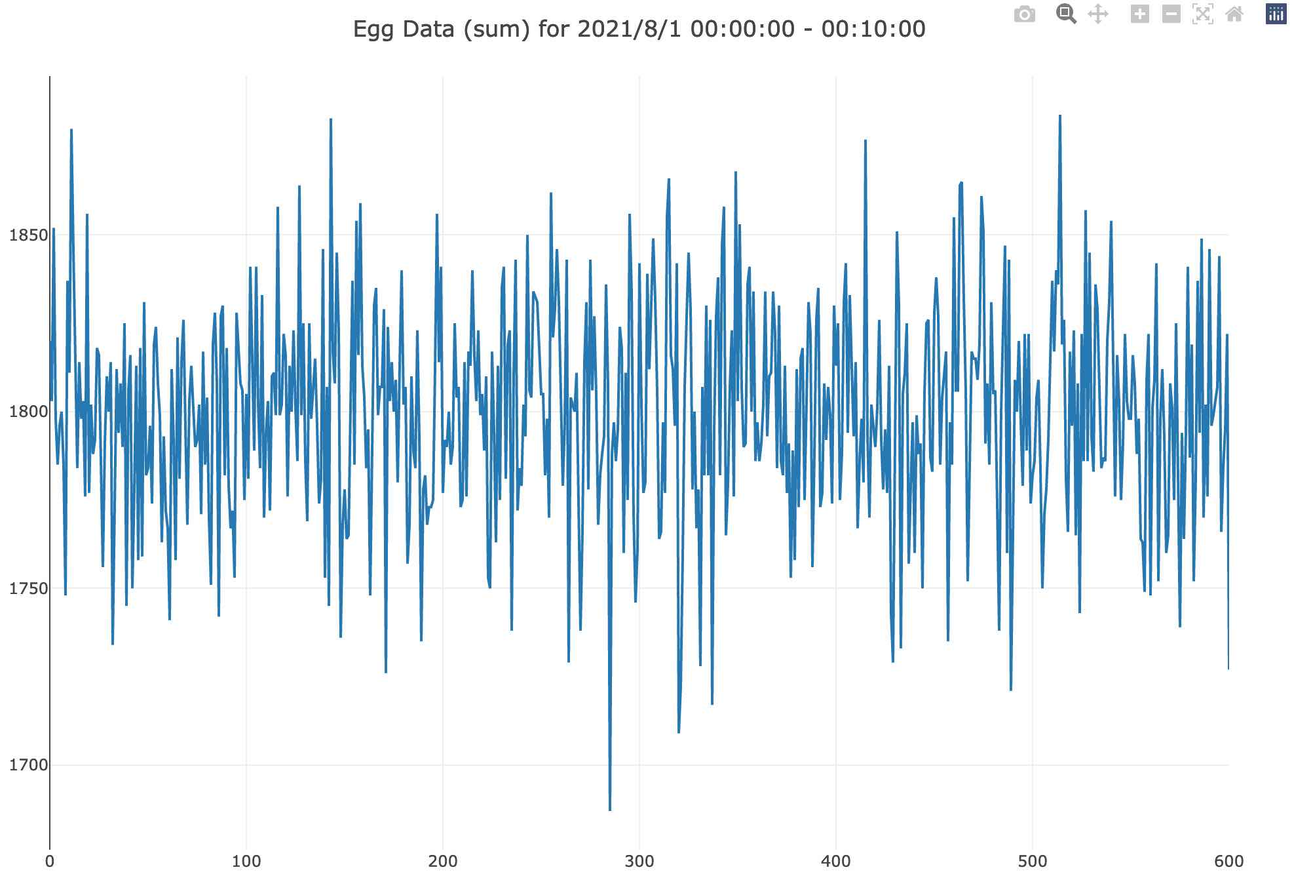
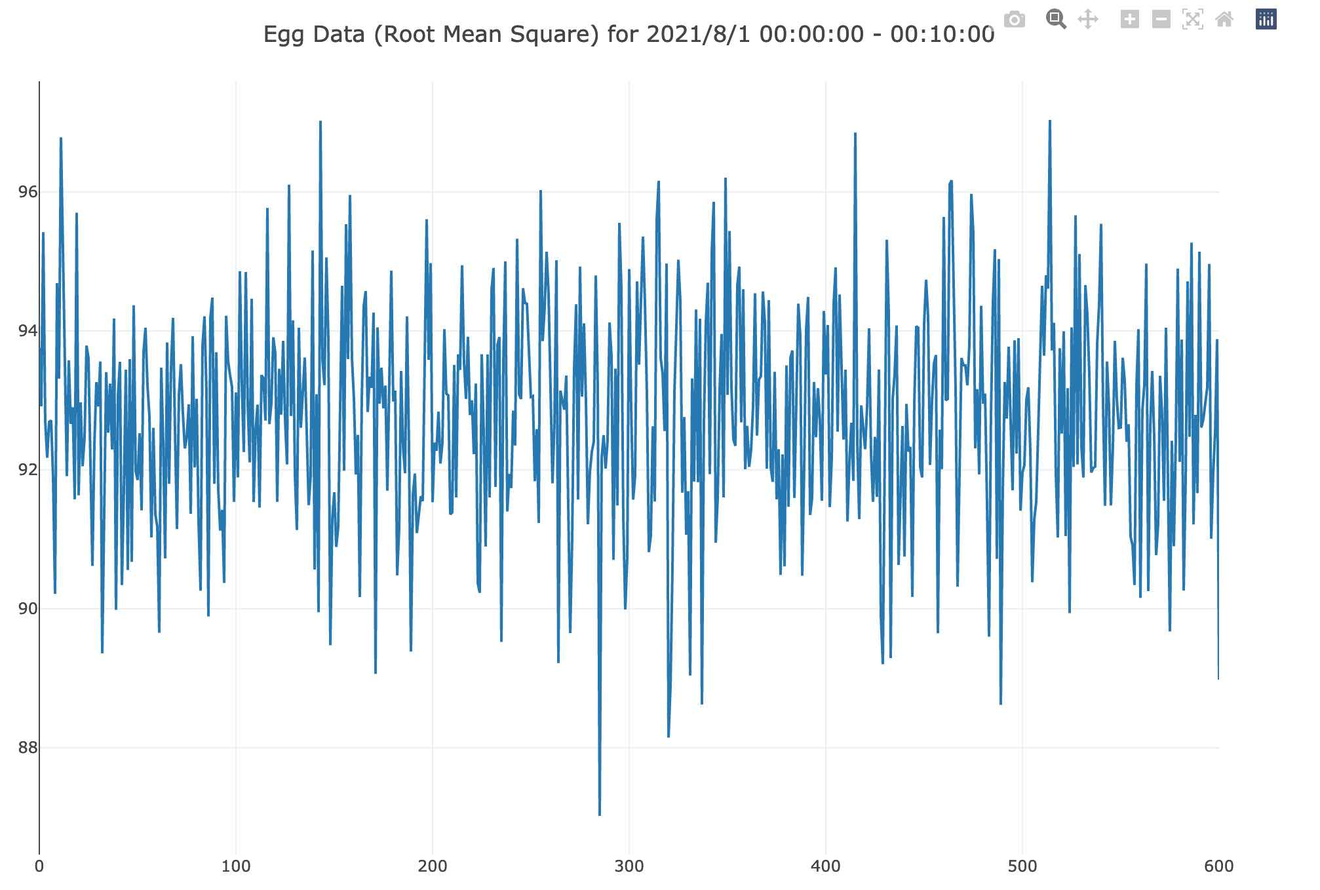
Using root mean square.

diff --git a/p.html b/p.html
@@ -9,7 +9,7 @@ window.PlotlyConfig = {MathJaxConfig: 'local'};
 <script src="https://cdn.plot.ly/plotly-2.3.0.min.js"></script>
 
     <div
-        id=ecaf3ba2-5020-43ff-a134-9214b3d9214f
+        id=5c36fc4e-a278-4e18-a6ee-1430b89dcc70
         class="plotly-graph-div"
         style="height:700; width:1000;">
     </div>
@@ -17,11 +17,11 @@ window.PlotlyConfig = {MathJaxConfig: 'local'};
         
         window.PLOTLYENV = window.PLOTLYENV || {}
         
-        if (document.getElementById('ecaf3ba2-5020-43ff-a134-9214b3d9214f')) {
+        if (document.getElementById('5c36fc4e-a278-4e18-a6ee-1430b89dcc70')) {
     Plotly.newPlot(
-        'ecaf3ba2-5020-43ff-a134-9214b3d9214f',
-        [{"mode":"lines","y":[1820,1803,1852,1798,1785,1796,1800,1785,1748,1837,1811,1880,1846,1819,1784,1814,1798,1803,1776,1856,1777,1802,1788,1792,1818,1816,1783,1756,1791,1810,1800,1814,1734,1782,1812,1794,1808,1790,1825,1745,1806,1816,1750,1778,1813,1758,1818,1759,1831,1782,1784,1796,1774,1819,1824,1808,1799,1763,1793,1772,1767,1741,1812,1792,1758,1821,1781,1814,1826,1796,1768,1803,1813,1801,1790,1792,1802,1771,1817,1785,1804,1770,1751,1819,1828,1808,1742,1827,1830,1782,1818,1779,1767,1772,1753,1828,1817,1808,1806,1775,1805,1781,1841,1809,1789,1841,1802,1784,1833,1770,1794,1803,1772,1810,1811,1799,1858,1799,1802,1822,1816,1776,1813,1800,1823,1801,1786,1864,1799,1825,1786,1769,1825,1798,1809,1815,1796,1774,1781,1846,1753,1807,1745,1883,1817,1808,1845,1823,1736,1768,1778,1764,1765,1799,1837,1785,1854,1816,1859,1813,1804,1784,1795,1748,1800,1830,1835,1799,1807,1807,1829,1726,1824,1803,1814,1800,1809,1780,1813,1840,1802,1807,1757,1768,1810,1789,1784,1823,1793,1735,1778,1782,1768,1773,1773,1775,1812,1856,1814,1841,1777,1792,1790,1800,1785,1790,1825,1804,1807,1773,1775,1814,1776,1817,1813,1840,1816,1803,1823,1799,1805,1789,1810,1753,1750,1817,1795,1763,1813,1775,1835,1841,1781,1819,1823,1738,1810,1843,1772,1784,1779,1802,1793,1850,1806,1804,1834,1832,1831,1818,1805,1805,1782,1798,1770,1862,1821,1829,1846,1831,1808,1779,1797,1843,1729,1804,1802,1800,1811,1780,1738,1766,1814,1831,1778,1843,1806,1827,1805,1768,1782,1788,1793,1836,1808,1687,1788,1797,1786,1795,1824,1818,1760,1811,1775,1856,1834,1771,1746,1761,1842,1802,1777,1780,1839,1812,1833,1849,1832,1806,1764,1766,1797,1777,1855,1866,1816,1812,1796,1842,1709,1722,1759,1807,1827,1845,1829,1778,1800,1767,1778,1728,1807,1782,1830,1782,1826,1717,1795,1827,1838,1782,1847,1858,1765,1779,1807,1823,1776,1868,1803,1853,1807,1790,1791,1836,1841,1800,1834,1786,1797,1786,1791,1802,1834,1793,1810,1811,1834,1822,1784,1830,1786,1782,1813,1777,1791,1753,1789,1758,1812,1773,1815,1818,1775,1808,1831,1822,1756,1788,1826,1835,1773,1777,1808,1792,1807,1799,1774,1830,1813,1825,1775,1788,1831,1842,1794,1833,1816,1793,1814,1767,1786,1798,1780,1877,1794,1770,1802,1795,1790,1801,1826,1792,1778,1795,1777,1813,1743,1729,1803,1851,1830,1733,1805,1811,1825,1757,1779,1797,1760,1799,1788,1791,1750,1805,1825,1826,1787,1783,1828,1838,1827,1785,1804,1812,1817,1735,1797,1785,1855,1806,1806,1864,1865,1832,1806,1752,1784,1817,1815,1815,1809,1819,1861,1851,1791,1808,1785,1831,1805,1806,1774,1738,1800,1831,1847,1760,1843,1721,1778,1809,1800,1820,1797,1779,1822,1789,1822,1774,1782,1786,1804,1809,1784,1750,1771,1778,1792,1811,1837,1817,1840,1836,1884,1819,1826,1781,1766,1817,1796,1823,1765,1808,1743,1822,1786,1857,1786,1845,1793,1783,1836,1829,1810,1784,1787,1786,1820,1831,1854,1804,1776,1816,1803,1775,1791,1822,1803,1798,1798,1816,1808,1788,1798,1764,1763,1749,1809,1822,1748,1801,1809,1842,1752,1798,1812,1793,1760,1765,1808,1801,1775,1825,1780,1739,1794,1764,1794,1841,1787,1819,1752,1781,1837,1794,1849,1770,1802,1776,1846,1796,1799,1804,1807,1844,1766,1784,1795,1822,1727],"type":"scatter","x":"gmtime"}],
-        {"template":{"data":{"scatterpolargl":[{"fields":{"type":"scatterpolargl","marker":{"colorbar":{"ticks":"","outlinewidth":0}}}}],"carpet":[{"fields":{"baxis":{"gridcolor":"white","endlinecolor":"#2a3f5f","minorgridcolor":"white","startlinecolor":"#2a3f5f","linecolor":"white"},"type":"carpet","aaxis":{"gridcolor":"white","endlinecolor":"#2a3f5f","minorgridcolor":"white","startlinecolor":"#2a3f5f","linecolor":"white"}}}],"scatterpolar":[{"fields":{"type":"scatterpolar","marker":{"colorbar":{"ticks":"","outlinewidth":0}}}}],"parcoords":[{"fields":{"line":{"colorbar":{"ticks":"","outlinewidth":0}},"type":"parcoords"}}],"scatter":[{"fields":{"type":"scatter","marker":{"colorbar":{"ticks":"","outlinewidth":0}}}}],"histogram2dcontour":[{"fields":{"colorbar":{"ticks":"","outlinewidth":0},"type":"histogram2dcontour","colorscale":[[0.0,"#0d0887"],[0.1111111111111111,"#46039f"],[0.2222222222222222,"#7201a8"],[0.3333333333333333,"#9c179e"],[0.4444444444444444,"#bd3786"],[0.5555555555555556,"#d8576b"],[0.6666666666666666,"#ed7953"],[0.7777777777777778,"#fb9f3a"],[0.8888888888888888,"#fdca26"],[1.0,"#f0f921"]]}}],"contour":[{"fields":{"colorbar":{"ticks":"","outlinewidth":0},"type":"contour","colorscale":[[0.0,"#0d0887"],[0.1111111111111111,"#46039f"],[0.2222222222222222,"#7201a8"],[0.3333333333333333,"#9c179e"],[0.4444444444444444,"#bd3786"],[0.5555555555555556,"#d8576b"],[0.6666666666666666,"#ed7953"],[0.7777777777777778,"#fb9f3a"],[0.8888888888888888,"#fdca26"],[1.0,"#f0f921"]]}}],"scattercarpet":[{"fields":{"type":"scattercarpet","marker":{"colorbar":{"ticks":"","outlinewidth":0}}}}],"mesh3d":[{"fields":{"colorbar":{"ticks":"","outlinewidth":0},"type":"mesh3d"}}],"surface":[{"fields":{"colorbar":{"ticks":"","outlinewidth":0},"type":"surface","colorscale":[[0.0,"#0d0887"],[0.1111111111111111,"#46039f"],[0.2222222222222222,"#7201a8"],[0.3333333333333333,"#9c179e"],[0.4444444444444444,"#bd3786"],[0.5555555555555556,"#d8576b"],[0.6666666666666666,"#ed7953"],[0.7777777777777778,"#fb9f3a"],[0.8888888888888888,"#fdca26"],[1.0,"#f0f921"]]}}],"scattermapbox":[{"fields":{"type":"scattermapbox","marker":{"colorbar":{"ticks":"","outlinewidth":0}}}}],"scattergeo":[{"fields":{"type":"scattergeo","marker":{"colorbar":{"ticks":"","outlinewidth":0}}}}],"histogram":[{"fields":{"type":"histogram","marker":{"colorbar":{"ticks":"","outlinewidth":0}}}}],"pie":[{"fields":{"type":"pie","automargin":true}}],"choropleth":[{"fields":{"colorbar":{"ticks":"","outlinewidth":0},"type":"choropleth"}}],"heatmapgl":[{"fields":{"colorbar":{"ticks":"","outlinewidth":0},"type":"heatmapgl","colorscale":[[0.0,"#0d0887"],[0.1111111111111111,"#46039f"],[0.2222222222222222,"#7201a8"],[0.3333333333333333,"#9c179e"],[0.4444444444444444,"#bd3786"],[0.5555555555555556,"#d8576b"],[0.6666666666666666,"#ed7953"],[0.7777777777777778,"#fb9f3a"],[0.8888888888888888,"#fdca26"],[1.0,"#f0f921"]]}}],"bar":[{"fields":{"type":"bar","error_y":{"color":"#2a3f5f"},"error_x":{"color":"#2a3f5f"},"marker":{"line":{"color":"#E5ECF6","width":0.5}}}}],"heatmap":[{"fields":{"colorbar":{"ticks":"","outlinewidth":0},"type":"heatmap","colorscale":[[0.0,"#0d0887"],[0.1111111111111111,"#46039f"],[0.2222222222222222,"#7201a8"],[0.3333333333333333,"#9c179e"],[0.4444444444444444,"#bd3786"],[0.5555555555555556,"#d8576b"],[0.6666666666666666,"#ed7953"],[0.7777777777777778,"#fb9f3a"],[0.8888888888888888,"#fdca26"],[1.0,"#f0f921"]]}}],"contourcarpet":[{"fields":{"colorbar":{"ticks":"","outlinewidth":0},"type":"contourcarpet"}}],"table":[{"fields":{"type":"table","header":{"line":{"color":"white"},"fill":{"color":"#C8D4E3"}},"cells":{"line":{"color":"white"},"fill":{"color":"#EBF0F8"}}}}],"scatter3d":[{"fields":{"line":{"colorbar":{"ticks":"","outlinewidth":0}},"type":"scatter3d","marker":{"colorbar":{"ticks":"","outlinewidth":0}}}}],"scattergl":[{"fields":{"type":"scattergl","marker":{"colorbar":{"ticks":"","outlinewidth":0}}}}],"histogram2d":[{"fields":{"colorbar":{"ticks":"","outlinewidth":0},"type":"histogram2d","colorscale":[[0.0,"#0d0887"],[0.1111111111111111,"#46039f"],[0.2222222222222222,"#7201a8"],[0.3333333333333333,"#9c179e"],[0.4444444444444444,"#bd3786"],[0.5555555555555556,"#d8576b"],[0.6666666666666666,"#ed7953"],[0.7777777777777778,"#fb9f3a"],[0.8888888888888888,"#fdca26"],[1.0,"#f0f921"]]}}],"scatterternary":[{"fields":{"type":"scatterternary","marker":{"colorbar":{"ticks":"","outlinewidth":0}}}}],"barpolar":[{"fields":{"type":"barpolar","marker":{"line":{"color":"#E5ECF6","width":0.5}}}}]},"layout":{"fields":{"xaxis":{"gridcolor":"white","zerolinewidth":2,"title":{"standoff":15},"ticks":"","zerolinecolor":"white","automargin":true,"linecolor":"white"},"hovermode":"closest","paper_bgcolor":"white","geo":{"showlakes":true,"showland":true,"landcolor":"#E5ECF6","bgcolor":"white","subunitcolor":"white","lakecolor":"white"},"colorscale":{"sequential":[[0.0,"#0d0887"],[0.1111111111111111,"#46039f"],[0.2222222222222222,"#7201a8"],[0.3333333333333333,"#9c179e"],[0.4444444444444444,"#bd3786"],[0.5555555555555556,"#d8576b"],[0.6666666666666666,"#ed7953"],[0.7777777777777778,"#fb9f3a"],[0.8888888888888888,"#fdca26"],[1.0,"#f0f921"]],"diverging":[[0,"#8e0152"],[0.1,"#c51b7d"],[0.2,"#de77ae"],[0.3,"#f1b6da"],[0.4,"#fde0ef"],[0.5,"#f7f7f7"],[0.6,"#e6f5d0"],[0.7,"#b8e186"],[0.8,"#7fbc41"],[0.9,"#4d9221"],[1,"#276419"]],"sequentialminus":[[0.0,"#0d0887"],[0.1111111111111111,"#46039f"],[0.2222222222222222,"#7201a8"],[0.3333333333333333,"#9c179e"],[0.4444444444444444,"#bd3786"],[0.5555555555555556,"#d8576b"],[0.6666666666666666,"#ed7953"],[0.7777777777777778,"#fb9f3a"],[0.8888888888888888,"#fdca26"],[1.0,"#f0f921"]]},"yaxis":{"gridcolor":"white","zerolinewidth":2,"title":{"standoff":15},"ticks":"","zerolinecolor":"white","automargin":true,"linecolor":"white"},"shapedefaults":{"line":{"color":"#2a3f5f"}},"font":{"color":"#2a3f5f"},"annotationdefaults":{"arrowhead":0,"arrowwidth":1,"arrowcolor":"#2a3f5f"},"plot_bgcolor":"#E5ECF6","title":{"x":0.05},"coloraxis":{"colorbar":{"ticks":"","outlinewidth":0}},"hoverlabel":{"align":"left"},"mapbox":{"style":"light"},"polar":{"angularaxis":{"gridcolor":"white","ticks":"","linecolor":"white"},"bgcolor":"#E5ECF6","radialaxis":{"gridcolor":"white","ticks":"","linecolor":"white"}},"autotypenumbers":"strict","ternary":{"aaxis":{"gridcolor":"white","ticks":"","linecolor":"white"},"bgcolor":"#E5ECF6","caxis":{"gridcolor":"white","ticks":"","linecolor":"white"},"baxis":{"gridcolor":"white","ticks":"","linecolor":"white"}},"scene":{"xaxis":{"gridcolor":"white","gridwidth":2,"backgroundcolor":"#E5ECF6","ticks":"","showbackground":true,"zerolinecolor":"white","linecolor":"white"},"zaxis":{"gridcolor":"white","gridwidth":2,"backgroundcolor":"#E5ECF6","ticks":"","showbackground":true,"zerolinecolor":"white","linecolor":"white"},"yaxis":{"gridcolor":"white","gridwidth":2,"backgroundcolor":"#E5ECF6","ticks":"","showbackground":true,"zerolinecolor":"white","linecolor":"white"}},"colorway":["#636efa","#EF553B","#00cc96","#ab63fa","#FFA15A","#19d3f3","#FF6692","#B6E880","#FF97FF","#FECB52"]}}},"height":700,"margin":{"l":50,"b":50,"r":50,"t":60},"title":"Egg Data (sum) for 2021/8/1 00:00:00 - 00:10:00","width":1000},
+        '5c36fc4e-a278-4e18-a6ee-1430b89dcc70',
+        [{"mode":"lines","y":[93.75601568001105,92.91496368287767,95.4188760401311,92.70023372857986,92.17349066273003,92.68944564152562,92.70947966118469,91.8920173744317,90.21297552115745,94.68619852162294,93.31232756817546,96.78596907364108,95.19203648165013,93.80603087526637,91.90833943197352,93.57604496064252,92.66118517532159,92.90009995381367,91.57562578598761,95.69943026152743,91.63410677149379,92.97260221110713,92.0517452823346,92.46415006703435,93.78699270154684,93.60708153919613,92.04683073098741,90.61693313850657,92.3628971064938,93.2620476067812,92.91111984297784,93.55975935961234,89.35802785904097,91.90108554206269,93.4059241518795,92.53467818427136,93.24060019009703,92.29455950534525,94.17789650696277,89.98491937144642,93.06628462194746,93.55517852353994,90.34062525480202,91.6993015500222,93.44185867362096,90.55910987279182,93.59232772788488,90.6749821116739,94.36883060882015,91.98498842331881,91.85236601665274,92.52644409650064,91.41688913459929,93.69326854917898,94.04406262112305,93.21710450034678,92.7677591777291,91.02668368592335,92.60438126012953,91.36113584482815,91.18244400781379,89.65569060100344,93.47013783378446,92.40129869217208,90.72564608280757,93.83191659253566,91.79765532849694,93.47523226833431,94.18725017346082,92.56966488619723,91.14718604438386,93.0731918847691,93.52183345793289,92.81445905420021,92.30797313754594,92.46672503173906,92.94237846260292,91.36660846752025,93.92271392201245,92.03337903794936,93.02124693290443,91.23908936728506,90.26178857185623,93.78115355392448,94.2089875401139,93.14760431957545,89.88934997036768,94.18901968155008,94.47801457532455,91.79739595850148,93.69199793040212,91.71617710555289,91.12550215421116,91.4241814422254,90.37092874317914,94.21707458235552,93.57019264905333,93.3620704058998,93.19411385459307,91.53999906364119,93.11309048166976,91.89098095543643,94.85954529373063,93.24596250674622,92.25611348951611,94.84699458049465,92.93981667622076,92.10811452800867,94.46264063739949,91.53557726240604,92.57120811261227,92.93904812653649,91.4559482821674,93.36258045154617,93.31385851242135,92.70870920202029,95.76906747856683,92.65681687974023,92.95108800818181,93.90674198627163,93.67827414944752,91.53973896359881,93.45408854976151,92.79316477290463,93.85678045882055,92.71538630207425,92.07657268868796,96.10460570698596,92.77545857760938,94.15008282119615,91.9285436785395,91.1338628193766,94.04482214044839,92.6046383698951,93.17699491265202,93.61598357626961,92.5496006011294,91.49134749617947,91.90704413647934,95.15501137867722,90.56568255770425,93.08853952273712,89.9499861033897,97.02405200086557,93.598687414484,93.21863700845601,95.05712568165073,93.88417382731818,89.47625383307015,91.28344136077838,91.67748853869146,90.89030541838672,91.1709540212389,92.92982503455164,94.64796931386375,91.98576494426163,95.53408765860438,93.59334530678069,95.95460236114636,93.60937071529905,93.02380647677545,91.93424150937865,92.50250961846541,90.16809698715902,93.02022309563606,94.35697163028334,94.57146453746978,92.83138836981092,93.3398807227293,93.18006122300956,94.26280385431038,89.06231098559726,94.0506449181706,92.95134415893286,93.4691189135545,92.88446484490186,93.21276225720943,91.6993015500222,93.53201641811266,94.86582002767808,92.98386956886662,93.14019131446553,90.48151613398596,91.15502232591518,93.42274628702329,92.32731629010632,91.95029713305522,94.20721840708386,92.34691321832247,89.38386985623407,91.63592558130712,91.94511820594262,91.0891766086295,91.39631127286108,91.6179957369574,91.5504024593895,93.48389216992463,95.6068337864332,93.583677860537,94.974934036503,91.53375645863427,92.39047569960877,92.27391934060344,92.836261388379,92.09027661821332,92.39047569960877,94.02456619213432,93.09646814435219,93.06961040507466,91.35931156441477,91.38693248255699,93.50935782048768,91.6037013184407,93.66175211645258,93.43778169252012,94.94258916890374,93.53990744978469,93.0209909746438,93.91460153220255,92.78931588742932,92.99897592882151,92.22565493706959,93.24111090020733,90.37092874317914,90.22986518569432,93.66327734928734,92.55757538907748,90.8958063886757,93.66073528076392,91.60188186879547,94.58556217218657,94.90521587352299,91.75303290692383,93.79841606947772,93.91105214129865,89.52307497165718,93.55517852353994,94.9989974884447,91.40073981153128,91.93993898710387,91.73798091770465,92.8516481890794,92.35000709000411,95.32550750430013,93.08674909536188,93.01868731860384,94.61400278927809,94.40137206428224,94.38850817864682,93.68183235977888,93.0486303985589,93.06091195197548,91.83577474932916,92.58458166403713,91.23595782365635,96.02579018655551,93.85170673537513,94.33602553789149,95.13949658014704,94.52361760805755,93.265111120831,91.80543608762008,92.69278494549822,95.01754224001658,89.21963268890349,93.13993568307646,92.99667172743847,92.86600690293106,93.3551845169323,91.7247435070198,89.65117586140927,91.01909794365241,93.45485286388033,94.3819494445436,91.57198573487729,94.9237789467097,93.05298030077888,94.108093877909,92.99743980090962,91.21560016951987,91.96790330378984,92.25998461903602,92.40310240101971,94.7960216163406,93.21863700845601,87.01860775281396,92.1665159733548,92.49839123440138,92.01759666084577,92.42268325985987,94.1204901531365,93.63912491200307,90.70464890695148,93.45459809320195,91.48796433983881,95.55402361267383,94.6245714590535,91.31082447698446,89.99100484148931,90.73535563331838,94.88840563424766,92.89215457159115,91.57172572568976,91.90937565522538,94.71184368036204,93.51241323252988,94.40414639804153,95.35622435798055,94.40893823705264,93.10823195154582,90.8158786200068,91.0515291051224,92.62649009147796,91.54364038663797,95.60509051997877,96.16008477929866,93.60809895770873,93.38552962240533,92.5573181485783,94.96816509205799,88.14517246322357,88.87872957816494,90.57146612587475,93.11104481567514,94.06153001398303,95.02305484660526,94.43138098262523,91.67177474945211,92.75928909972151,91.06538728795239,91.69151178453399,89.03985196582056,93.3143688215884,91.8305893635511,94.30750109034149,91.82125493121328,94.17410421534099,88.62199017657606,92.67891320241597,94.12833185148273,94.69349049885712,91.93631336031325,95.12422955072513,95.85802994408921,90.94922707072284,91.58888474877183,93.15246079616443,93.95566330278695,91.60214179238595,96.20414801471969,93.07830804527674,95.43659076655481,93.19641317438901,92.43788132990665,92.34485057961504,94.6532518999643,94.92478225265668,92.68173909624679,94.59890264137519,92.00776364757797,92.63163092388608,92.04243327840439,92.29172175640622,92.90958226249043,94.53948532604927,92.49118362102978,93.29778234489923,93.34753293345199,94.56668093391637,94.10682886005264,92.0160441496611,94.44222219607782,92.03467255540681,91.82695941928208,93.40974763043177,91.57536578713524,92.29791309615165,90.4873050817206,92.22204054294592,90.60957586312408,93.50273741854782,91.4671421617517,93.60937071529905,93.71740703280464,91.59460370879624,93.22527758581565,94.3905261589924,93.93412078483009,90.47651629014017,92.04915870907033,94.01924828256737,94.48885043825466,91.35045025562141,91.58888474877183,93.26357937638485,92.4692999247395,93.1744395769365,92.6979221013328,91.55430342802285,94.28578643575882,93.37252578477553,94.0838025632569,91.46453905619327,92.16444929736039,94.39153513298692,94.91349444926907,92.54805701441201,94.52361760805755,93.67217404585094,92.43607829970163,93.4416038675136,91.25709365773788,92.10552953774584,92.67608722241754,91.84044134621014,96.85408760457292,92.385836886088,91.28813619262806,92.92649424859056,92.51846662513742,92.2966232679542,92.9067632988399,94.03646709047051,92.22952734501958,91.53869855603877,92.47419202391654,91.60915945055983,93.44389709746648,89.90815419346674,89.2030855755028,92.94007285803656,95.31027027056223,94.26255126734355,89.28845710072815,93.01638360551124,93.3745657222004,94.07722258614892,90.63085777455922,91.635665753544,92.62957462516006,90.75083628107394,92.94929493315928,92.26153302536478,92.32886356724558,90.17126561636552,92.96619969491216,94.06507372685196,94.0445689680215,92.04424401961731,91.88994452475148,94.10227465496303,94.73521998054316,94.21480017188685,92.07062506576133,92.97926036026989,93.53074360871938,93.65056631664632,89.64772326007106,92.57815231313641,92.01112769142446,95.63845610273248,93.00076804598366,93.01817538729166,96.11203779716571,96.16577947927809,94.3342587873164,93.17571725355424,90.31690238899282,91.82488510098732,93.60937071529905,93.50502914918789,93.5019734958522,93.21735992011462,93.78775430269592,95.97048157289477,95.41563214244748,92.30874694147225,93.16038397761756,91.93398252472882,94.36126122009826,92.95185645831727,93.09544513434534,91.50435847022598,89.59857566895113,92.78957248476125,94.40666844889215,95.17427623650656,90.71777271138377,95.0335780257744,88.61822880305427,91.70085942371324,93.26485583183697,92.73772541035129,93.77226719685355,92.68867501583178,91.70319618462702,93.8641368706717,92.23236700751815,93.89406391298247,91.41115905621152,91.96013629104007,92.06622874969126,93.00896014184153,93.18721555480207,92.28424000001816,90.38225700297808,91.28213719796754,91.53713792252638,92.54702794229743,93.4948432496986,94.64746619504854,93.64243035026783,94.80104480035067,94.60695635351658,97.03509428969255,93.71867730709006,94.11593660910741,91.93553642168439,91.02432955769886,93.74966666607408,92.5218121000973,93.9941740849121,91.04656056368187,93.1741840395105,89.93675026160912,94.0506449181706,92.04191591722918,95.66285042993938,92.0776070186759,95.10670698896958,92.33144230485755,91.88838985680503,94.65828266026422,94.23956301944125,93.38450977901348,91.96117193064225,92.02561755138775,92.04708939812636,93.80729994946834,94.3819494445436,95.53907203712147,92.93366810078393,91.48301950166957,93.55823243917585,92.91445118007876,91.48640284086977,92.32834781108026,93.85601941778897,93.01535971471132,92.60258147178239,92.60978041530727,93.61318588440717,93.28042718190186,92.4028447304828,92.65553204772837,91.03740727750062,90.91571188010721,90.34088880720729,93.20969702261465,94.02330005047128,90.15647772728522,92.85959703716553,93.21838159218741,94.9671622444406,90.25308331364113,92.62263427992308,93.42121712718053,92.48294566078245,90.7733965642441,91.21377297838514,93.35390929657088,92.7939345308425,91.5524829966787,94.04583482334051,91.80932621990198,89.67268522906224,92.41830369111335,90.90130702606876,92.43633587759842,94.89618387630618,92.11457668629454,93.87504359265996,90.26257991733524,91.84899615803155,94.71134090085566,92.475479375423,95.26879267180233,91.21351194809222,92.79111205385178,91.66346314748574,95.13899606065102,92.60772363140386,92.72822552774214,92.96440691136019,93.1907925147319,94.96214784749513,91.00811057524594,91.93838516455826,92.53956682723033,93.87986243827038,88.98127143768326],"type":"scatter","x":"gmtime"}],
+        {"template":{"data":{"scatterpolargl":[{"fields":{"type":"scatterpolargl","marker":{"colorbar":{"ticks":"","outlinewidth":0}}}}],"carpet":[{"fields":{"baxis":{"gridcolor":"white","endlinecolor":"#2a3f5f","minorgridcolor":"white","startlinecolor":"#2a3f5f","linecolor":"white"},"type":"carpet","aaxis":{"gridcolor":"white","endlinecolor":"#2a3f5f","minorgridcolor":"white","startlinecolor":"#2a3f5f","linecolor":"white"}}}],"scatterpolar":[{"fields":{"type":"scatterpolar","marker":{"colorbar":{"ticks":"","outlinewidth":0}}}}],"parcoords":[{"fields":{"line":{"colorbar":{"ticks":"","outlinewidth":0}},"type":"parcoords"}}],"scatter":[{"fields":{"type":"scatter","marker":{"colorbar":{"ticks":"","outlinewidth":0}}}}],"histogram2dcontour":[{"fields":{"colorbar":{"ticks":"","outlinewidth":0},"type":"histogram2dcontour","colorscale":[[0.0,"#0d0887"],[0.1111111111111111,"#46039f"],[0.2222222222222222,"#7201a8"],[0.3333333333333333,"#9c179e"],[0.4444444444444444,"#bd3786"],[0.5555555555555556,"#d8576b"],[0.6666666666666666,"#ed7953"],[0.7777777777777778,"#fb9f3a"],[0.8888888888888888,"#fdca26"],[1.0,"#f0f921"]]}}],"contour":[{"fields":{"colorbar":{"ticks":"","outlinewidth":0},"type":"contour","colorscale":[[0.0,"#0d0887"],[0.1111111111111111,"#46039f"],[0.2222222222222222,"#7201a8"],[0.3333333333333333,"#9c179e"],[0.4444444444444444,"#bd3786"],[0.5555555555555556,"#d8576b"],[0.6666666666666666,"#ed7953"],[0.7777777777777778,"#fb9f3a"],[0.8888888888888888,"#fdca26"],[1.0,"#f0f921"]]}}],"scattercarpet":[{"fields":{"type":"scattercarpet","marker":{"colorbar":{"ticks":"","outlinewidth":0}}}}],"mesh3d":[{"fields":{"colorbar":{"ticks":"","outlinewidth":0},"type":"mesh3d"}}],"surface":[{"fields":{"colorbar":{"ticks":"","outlinewidth":0},"type":"surface","colorscale":[[0.0,"#0d0887"],[0.1111111111111111,"#46039f"],[0.2222222222222222,"#7201a8"],[0.3333333333333333,"#9c179e"],[0.4444444444444444,"#bd3786"],[0.5555555555555556,"#d8576b"],[0.6666666666666666,"#ed7953"],[0.7777777777777778,"#fb9f3a"],[0.8888888888888888,"#fdca26"],[1.0,"#f0f921"]]}}],"scattermapbox":[{"fields":{"type":"scattermapbox","marker":{"colorbar":{"ticks":"","outlinewidth":0}}}}],"scattergeo":[{"fields":{"type":"scattergeo","marker":{"colorbar":{"ticks":"","outlinewidth":0}}}}],"histogram":[{"fields":{"type":"histogram","marker":{"colorbar":{"ticks":"","outlinewidth":0}}}}],"pie":[{"fields":{"type":"pie","automargin":true}}],"choropleth":[{"fields":{"colorbar":{"ticks":"","outlinewidth":0},"type":"choropleth"}}],"heatmapgl":[{"fields":{"colorbar":{"ticks":"","outlinewidth":0},"type":"heatmapgl","colorscale":[[0.0,"#0d0887"],[0.1111111111111111,"#46039f"],[0.2222222222222222,"#7201a8"],[0.3333333333333333,"#9c179e"],[0.4444444444444444,"#bd3786"],[0.5555555555555556,"#d8576b"],[0.6666666666666666,"#ed7953"],[0.7777777777777778,"#fb9f3a"],[0.8888888888888888,"#fdca26"],[1.0,"#f0f921"]]}}],"bar":[{"fields":{"type":"bar","error_y":{"color":"#2a3f5f"},"error_x":{"color":"#2a3f5f"},"marker":{"line":{"color":"#E5ECF6","width":0.5}}}}],"heatmap":[{"fields":{"colorbar":{"ticks":"","outlinewidth":0},"type":"heatmap","colorscale":[[0.0,"#0d0887"],[0.1111111111111111,"#46039f"],[0.2222222222222222,"#7201a8"],[0.3333333333333333,"#9c179e"],[0.4444444444444444,"#bd3786"],[0.5555555555555556,"#d8576b"],[0.6666666666666666,"#ed7953"],[0.7777777777777778,"#fb9f3a"],[0.8888888888888888,"#fdca26"],[1.0,"#f0f921"]]}}],"contourcarpet":[{"fields":{"colorbar":{"ticks":"","outlinewidth":0},"type":"contourcarpet"}}],"table":[{"fields":{"type":"table","header":{"line":{"color":"white"},"fill":{"color":"#C8D4E3"}},"cells":{"line":{"color":"white"},"fill":{"color":"#EBF0F8"}}}}],"scatter3d":[{"fields":{"line":{"colorbar":{"ticks":"","outlinewidth":0}},"type":"scatter3d","marker":{"colorbar":{"ticks":"","outlinewidth":0}}}}],"scattergl":[{"fields":{"type":"scattergl","marker":{"colorbar":{"ticks":"","outlinewidth":0}}}}],"histogram2d":[{"fields":{"colorbar":{"ticks":"","outlinewidth":0},"type":"histogram2d","colorscale":[[0.0,"#0d0887"],[0.1111111111111111,"#46039f"],[0.2222222222222222,"#7201a8"],[0.3333333333333333,"#9c179e"],[0.4444444444444444,"#bd3786"],[0.5555555555555556,"#d8576b"],[0.6666666666666666,"#ed7953"],[0.7777777777777778,"#fb9f3a"],[0.8888888888888888,"#fdca26"],[1.0,"#f0f921"]]}}],"scatterternary":[{"fields":{"type":"scatterternary","marker":{"colorbar":{"ticks":"","outlinewidth":0}}}}],"barpolar":[{"fields":{"type":"barpolar","marker":{"line":{"color":"#E5ECF6","width":0.5}}}}]},"layout":{"fields":{"xaxis":{"gridcolor":"white","zerolinewidth":2,"title":{"standoff":15},"ticks":"","zerolinecolor":"white","automargin":true,"linecolor":"white"},"hovermode":"closest","paper_bgcolor":"white","geo":{"showlakes":true,"showland":true,"landcolor":"#E5ECF6","bgcolor":"white","subunitcolor":"white","lakecolor":"white"},"colorscale":{"sequential":[[0.0,"#0d0887"],[0.1111111111111111,"#46039f"],[0.2222222222222222,"#7201a8"],[0.3333333333333333,"#9c179e"],[0.4444444444444444,"#bd3786"],[0.5555555555555556,"#d8576b"],[0.6666666666666666,"#ed7953"],[0.7777777777777778,"#fb9f3a"],[0.8888888888888888,"#fdca26"],[1.0,"#f0f921"]],"diverging":[[0,"#8e0152"],[0.1,"#c51b7d"],[0.2,"#de77ae"],[0.3,"#f1b6da"],[0.4,"#fde0ef"],[0.5,"#f7f7f7"],[0.6,"#e6f5d0"],[0.7,"#b8e186"],[0.8,"#7fbc41"],[0.9,"#4d9221"],[1,"#276419"]],"sequentialminus":[[0.0,"#0d0887"],[0.1111111111111111,"#46039f"],[0.2222222222222222,"#7201a8"],[0.3333333333333333,"#9c179e"],[0.4444444444444444,"#bd3786"],[0.5555555555555556,"#d8576b"],[0.6666666666666666,"#ed7953"],[0.7777777777777778,"#fb9f3a"],[0.8888888888888888,"#fdca26"],[1.0,"#f0f921"]]},"yaxis":{"gridcolor":"white","zerolinewidth":2,"title":{"standoff":15},"ticks":"","zerolinecolor":"white","automargin":true,"linecolor":"white"},"shapedefaults":{"line":{"color":"#2a3f5f"}},"font":{"color":"#2a3f5f"},"annotationdefaults":{"arrowhead":0,"arrowwidth":1,"arrowcolor":"#2a3f5f"},"plot_bgcolor":"#E5ECF6","title":{"x":0.05},"coloraxis":{"colorbar":{"ticks":"","outlinewidth":0}},"hoverlabel":{"align":"left"},"mapbox":{"style":"light"},"polar":{"angularaxis":{"gridcolor":"white","ticks":"","linecolor":"white"},"bgcolor":"#E5ECF6","radialaxis":{"gridcolor":"white","ticks":"","linecolor":"white"}},"autotypenumbers":"strict","ternary":{"aaxis":{"gridcolor":"white","ticks":"","linecolor":"white"},"bgcolor":"#E5ECF6","caxis":{"gridcolor":"white","ticks":"","linecolor":"white"},"baxis":{"gridcolor":"white","ticks":"","linecolor":"white"}},"scene":{"xaxis":{"gridcolor":"white","gridwidth":2,"backgroundcolor":"#E5ECF6","ticks":"","showbackground":true,"zerolinecolor":"white","linecolor":"white"},"zaxis":{"gridcolor":"white","gridwidth":2,"backgroundcolor":"#E5ECF6","ticks":"","showbackground":true,"zerolinecolor":"white","linecolor":"white"},"yaxis":{"gridcolor":"white","gridwidth":2,"backgroundcolor":"#E5ECF6","ticks":"","showbackground":true,"zerolinecolor":"white","linecolor":"white"}},"colorway":["#636efa","#EF553B","#00cc96","#ab63fa","#FFA15A","#19d3f3","#FF6692","#B6E880","#FF97FF","#FECB52"]}}},"height":700,"margin":{"l":50,"b":50,"r":50,"t":60},"title":"Egg Data (Root Mean Square) for 2021/8/1 00:00:00 - 00:10:00","width":1000},
         {"editable":false,"responsive":true,"staticPlot":false,"scrollZoom":true},
     )
 }
